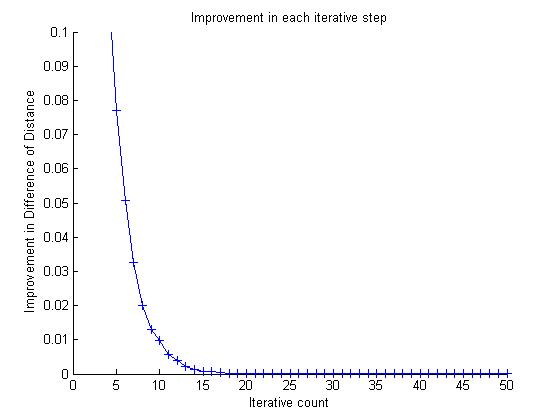
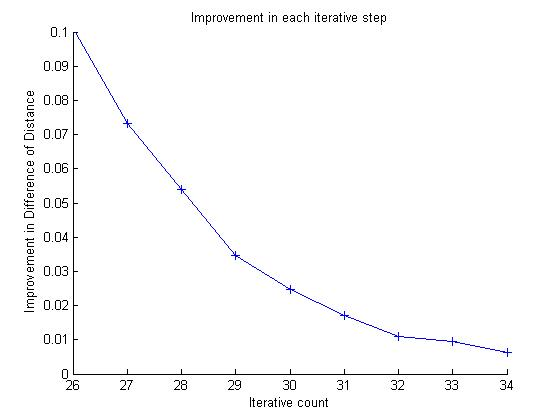
Report update

diff --git a/Assignment 1/report/report.tex b/Assignment 1/report/report.tex
@@ -20,40 +20,62 @@ Selene Baez Santamaria (10985417) - Ildefonso Ferreira ()}
 \maketitle
 
 \section{ICP}
-In this assignment we create a function called \textit{own\_ICP} which implements the Iterative Closest Point algorithm. This function takes as arguments a base point cloud and a target point cloud, and a parameter \textit{k} for the number of points to be sampled. 
+In this assignment we create a function called \textit{own\_ICP} which implements the Iterative Closest Point algorithm. This function takes as arguments a base point cloud and a target point cloud, and a parameter $k$ for the number of points to be sampled. It outputs the base point cloud, the transformed point cloud, and the rotation and transformation matrices.
 
 \subsection{Implementation}
+Our implementation follows the basic steps outlined by \texttt{Cai et al}. The steps are further explained in the following list:
 
 \begin{enumerate}
-	\item \textit{Phase 1:} In this phase we find the corresponding points. To do so we use the function provided by the assignment package \textit{dist2} to find the distance among two sets of points. For each point in the base cloud we match it with the point in the target cloud that returns the lowest distance. 
+	\item \textbf{Find closest points:} In this phase we find the corresponding points in the clouds. To do so we use the function provided by the assignment package \textit{dist2} to find the distance among two sets of points. For each point in the base cloud we match it with the point in the target cloud that returns the lowest distance. 
 	
-	Our first approach was to use brute force and compare all points in one cloud to points in the second cloud. However, this lead to problems regarding memory capacity. Thus, we chose to sample the points to be matched to work within such limitations.
+	Our first approach was to use brute force and compare all points in one cloud to the points in the second cloud. However, this lead to problems regarding memory capacity. Thus, we chose to sample the points to be matched to work within such limitations.
 	
-	A second approach led us to sample the first \textit{k} elements in each cloud and compare them.
+	A second approach led us to sample the first \textit{k} elements in each cloud and compare them. This leas to incomplete clouds which were not representative of the whole.
 	
-	An ideal approach is to get the most significant points from the clouds and compare them. %TODO try to implement this
+	Finally, we decided to go with uniform random sampling to get $k$ samples from each cloud, and match them together. This by itself brings new problems which shall be discussed in Section \ref{reflection}
 	
-	\item \textit{Phase 2:} Secondly, we find the geometric centers of each cloud and translate the points to center them. 
+	\item \textbf{Center point clouds:} Secondly, we find the geometric centers of each cloud and subtract the centroid from each point. 
 	
-	\item \textit{Phase 3:} Next, we apply single value decomposition using Matlab's built in function \textit{svd}. The matrix to be decomposed is $A$, the covariance matrix between both clouds. 
+	For the base point cloud we only calculate and shift the cloud once, in the first iteration of the algorithm. Since the base cloud does not change over the iterations, there is no need to recalculate this process.
 	
-	\item \textit{Phase 4:} We proceed to calculate the Rotation and translation matrices
+	On the other hand, since the matched points from the target cloud do change, we calculate the centroid for this matched cloud on every iteration and subtract it from every point.
 	
-	\item \textit{Phase 5:} Finally we calculate the average distances between the base and the transformed clouds. 
+	\item \textbf{Matrix Decomposition:} Next, we apply Singular Value Decomposition using Matlab's built in function \textit{svd}. The matrix to be decomposed is $A$, dimensions $3 x 3$, which is built as the dot product of the centered clouds: 
 	
-	We implemented two smart stopping conditions: the first stops if the distance is already within a certain threshold. The selected threshold is $ threshold = 0.001 $. The second condition limits the number of iterations to 30, since literature shows that this is often where the rate of significant improvement slows down.
+	\begin{center}
+		$A = cen_pcd_b^T * cen_pcd_match$
+	\end{center}
+	
+	The resulting matrices are the standard $U, S, V$ matrices.	
+	
+	\item \textbf{Find transformation matrices:} We proceed to calculate the Rotation and Translation matrices. 
+	
+	Since at every iteration we perform an update on the transformation of the target cloud, all of these updates must be combined to create the final matrices. For the rotation matrix this means each intermediate matrix should be multiplied with the accumulated matrix. For the translation matrix this means each intermediate matrix must be added to the accumulated matrix.
+	
+	\item \textbf{Transform matrix and evaluate:} Finally we calculate the average distances between the base and the transformed clouds. 
+	
+	We implemented two smart stopping conditions: the first stops if the distance is already within a certain threshold. The selected threshold is $ threshold = 0.00005 $. The second condition limits the number of iterations to $50$, since literature shows that this is often where the rate of significant improvement slows down.
 \end{enumerate}
 
-We tested our implementation with the given \textit{source.mat} and \textit{target.mat} files. Figure \ref{fig:test} we present a visualization of the results obtained with these point clouds 
+We tested our implementation with the given \textit{source.mat} and \textit{target.mat} files. In Figure \ref{fig:test} we present a visualization of the results obtained with these point clouds while Figure \ref{fig:test_performance} shows the performance on the algorithm per iteration.
 
-\begin{figure}[h]
+\begin{figure}[H]
 	\centering
-	\includegraphics[width=1\textwidth]{img/test_clouds.jpg}
-	\caption{Alignment of source and target point clouds provided. Blue points correspond to source cloud and red points correspond to target cloud}
+	\includegraphics[width=.6\textwidth]{img/test_clouds.jpg}
+	\caption{Alignment of source and target point clouds provided. Blue points correspond to source cloud and green points correspond to target cloud}
 	\label{fig:test}
 \end{figure}
 
+\begin{figure}[H]
+	\centering
+	\includegraphics[width=.6\textwidth]{img/test_performance.jpg}
+	\caption{Average distance between matched points per iteration for source and target test datasets.}
+	\label{fig:test_performance}
+\end{figure}
+
+
 \section{Merging scenes}
+We use our function on the dataset provided. Each point cloud corresponds to the image of a person from different angles. 
 
 
 \subsection{Estimating camera poses using consecutive frames}
@@ -64,13 +86,20 @@ We tested our implementation with the given \textit{source.mat} and \textit{targ
 
 
 
-\section{Reflection}
+\section{Discussion}
+\label{reflection}
+Given the previous results we can reflect on our implementation and on the ICP algorithm in general.
 
 \subsection{Drawbacks of ICP}
+Sampling size is important. Given the memory complexity of the brute force comparison, we have to work within a certain limit of comparisons.
+
 The performance heavily depends on the initial orientation of the point clouds. 
 
+Normalization does not change the performance.
+ 
+ 
 \subsection{Improvements}
-Selection of significant points.
+With regards to our implementation, we recognize that the sampling process could be improved. A smarter approach is to get the most significant points from the clouds and compare them, instead of choosing random points. 
 
 
 
